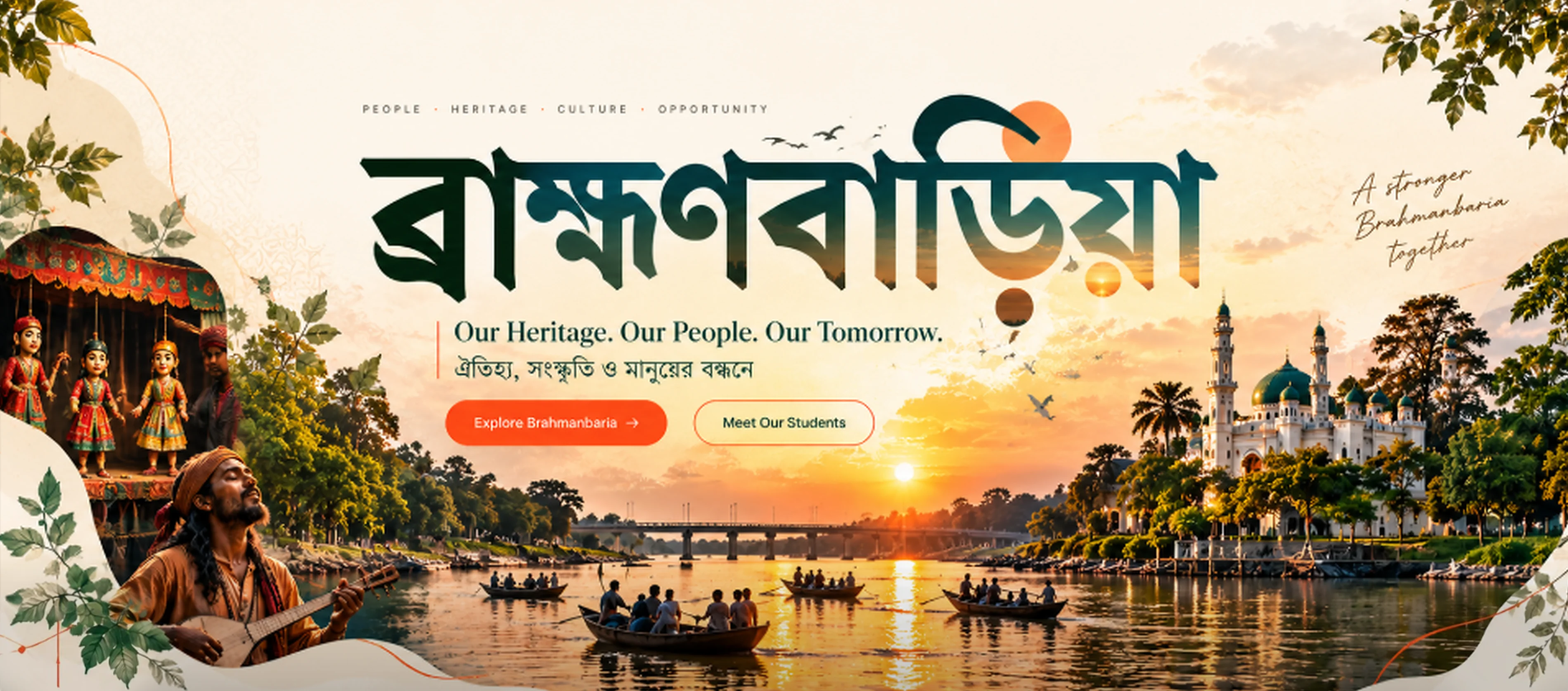
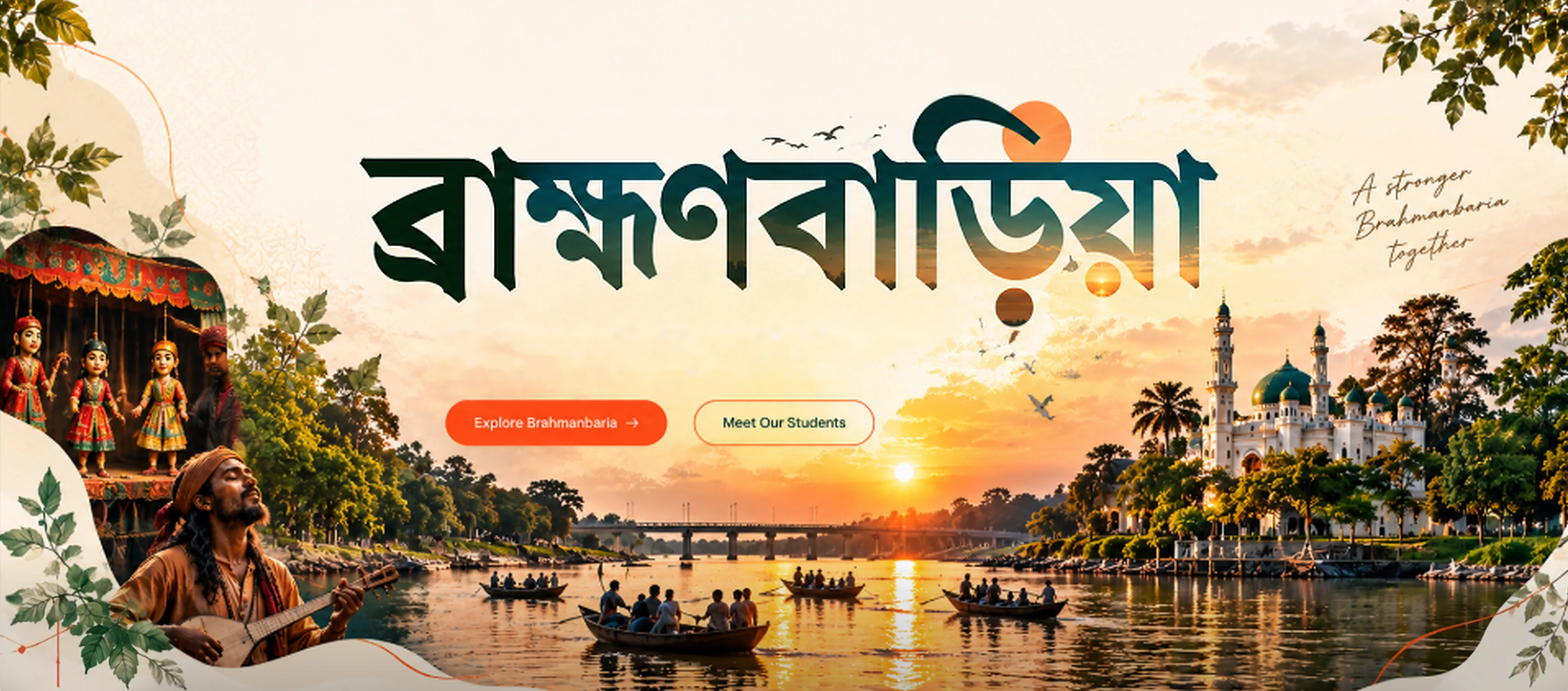
Hero: tagline and eyebrow as sharp real text over a cleaned picture, big lettering sharpened; admin search without the Ctrl K label

diff --git a/frontend/src/pages/Home.jsx b/frontend/src/pages/Home.jsx
@@ -67,6 +67,12 @@ export default function Home() {
           <img className="hx-img" src="/images/bswa/hero-4k-2400.webp" srcSet="/images/bswa/hero-4k-960.webp 960w, /images/bswa/hero-4k-1600.webp 1600w, /images/bswa/hero-4k-2400.webp 2400w, /images/bswa/hero-4k-3798.webp 3798w" sizes="100vw"
             width="3798" height="1676" alt="" fetchpriority="high" decoding="async" />
           <h1 id="hero-title" className="sr-only">{pick('ব্রাহ্মণবাড়িয়া — আমাদের ঐতিহ্য, আমাদের মানুষ, আমাদের আগামী। ঐতিহ্য, সংস্কৃতি ও মানুষের বন্ধনে।', 'Brahmanbaria — Our Heritage. Our People. Our Tomorrow.')}</h1>
+          {/* the small lines of the artwork are real text, so they stay sharp at any size (the heading above is for screen readers) */}
+          <p className="hx-eyebrow" aria-hidden="true">People · Heritage · Culture · Opportunity</p>
+          <div className="hx-tag" aria-hidden="true">
+            <span className="hx-tag-en">Our Heritage. Our People. Our Tomorrow.</span>
+            <span className="hx-tag-bn" lang="bn">ঐতিহ্য, সংস্কৃতি ও মানুষের বন্ধনে</span>
+          </div>
           {/* crisp, real buttons laid exactly over the ones drawn in the artwork, so they stay sharp at any size */}
           <Link className="hx-hit hx-explore" to="/heritage">{pick('ব্রাহ্মণবাড়িয়া ঘুরে দেখুন', 'Explore Brahmanbaria')} <Icon name="arrow" size={16} className="arr" /></Link>
           <Link className="hx-hit hx-meet" to="/students">{pick('আমাদের শিক্ষার্থীদের দেখুন', 'Meet Our Students')}</Link>

diff --git a/frontend/src/styles.css b/frontend/src/styles.css
@@ -875,6 +875,11 @@ html[lang='bn'] .member-card h3 { font-family: 'Noto Serif Bengali', serif; font
 .hx-meet:hover { background: #fff; }
 .hx-hit:focus-visible { outline: 3px solid var(--ink); outline-offset: 3px; }
 html[lang='bn'] .hx-hit { font-size: max(10px, .82cqw); }
+.hx-eyebrow { position: absolute; left: 22.9%; top: 15.1%; margin: 0; font: 600 max(9px, .74cqw)/1 var(--font-body); letter-spacing: .34em; text-transform: uppercase; color: #3b3a33; white-space: nowrap; }
+.hx-tag { position: absolute; left: 27.72%; top: 45.4%; display: grid; gap: .55cqw; padding-left: 1.05cqw; border-left: max(2px, .13cqw) solid #f2612b; line-height: 1; }
+.hx-tag-en { font: 400 1.86cqw/1.05 'DM Serif Display', Georgia, serif; color: #1d3b34; letter-spacing: -.005em; white-space: nowrap; }
+.hx-tag-bn { font: 600 1.42cqw/1.25 'Noto Serif Bengali', serif; color: #23231f; white-space: nowrap; }
+@media (max-width: 760px) { .hx-eyebrow { font-size: .74cqw; } }
 .hx-actions { display: none; }
 @media (max-width: 760px) {
   .hx-hit { display: none; }

diff --git a/frontend/src/admin/Sidebar.jsx b/frontend/src/admin/Sidebar.jsx
@@ -287,7 +287,7 @@ export default function Sidebar({ collapsed, onToggleCollapse, onSearch, onNavig
       </div>
 
       <button type="button" className="adm-search" onClick={onSearch} aria-label={t('ad.cmd.open')} title={`${t('ad.cmd.open')} (Ctrl K)`}>
-        <Icon name="search" size={15} /><span className="adm-fade">{t('ad.cmd.short')}</span><kbd className="adm-fade">Ctrl K</kbd>
+        <Icon name="search" size={15} /><span className="adm-fade">{t('ad.cmd.short')}</span>
       </button>
 
       <nav className="adm-nav" aria-label={t('admin.title')} onClick={(e) => { if (e.target.closest('a')) onNavigate?.() }}>
